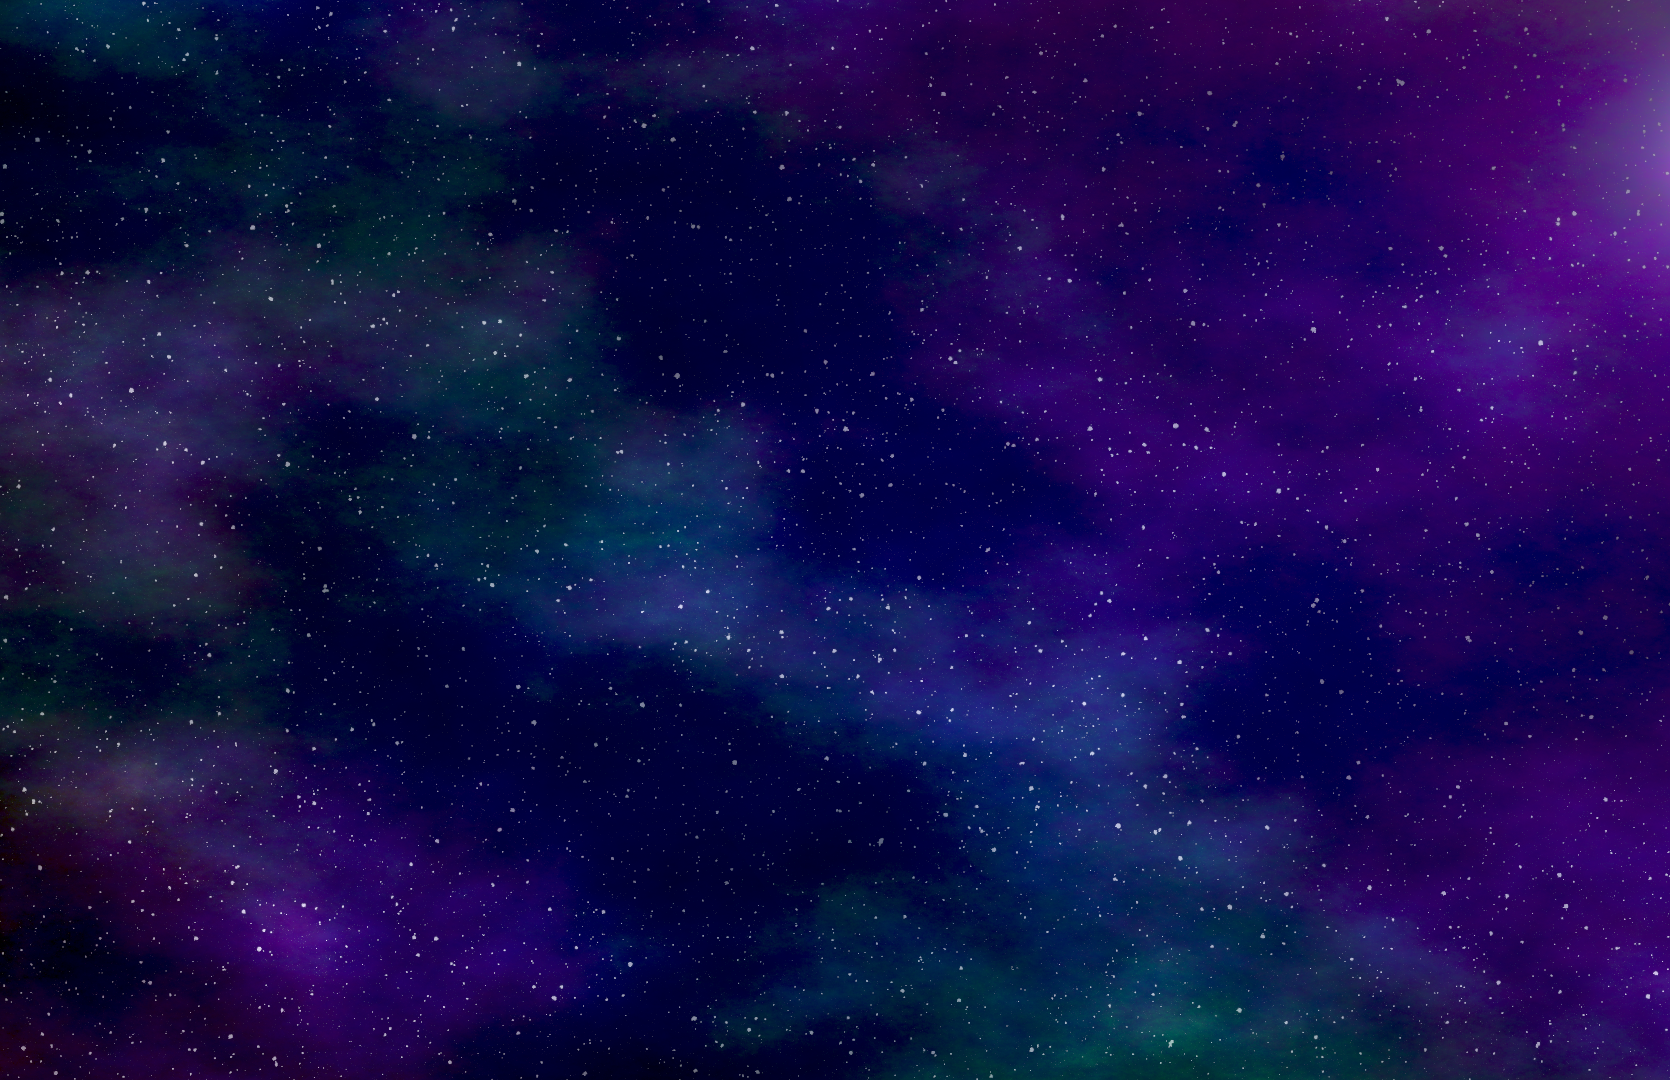
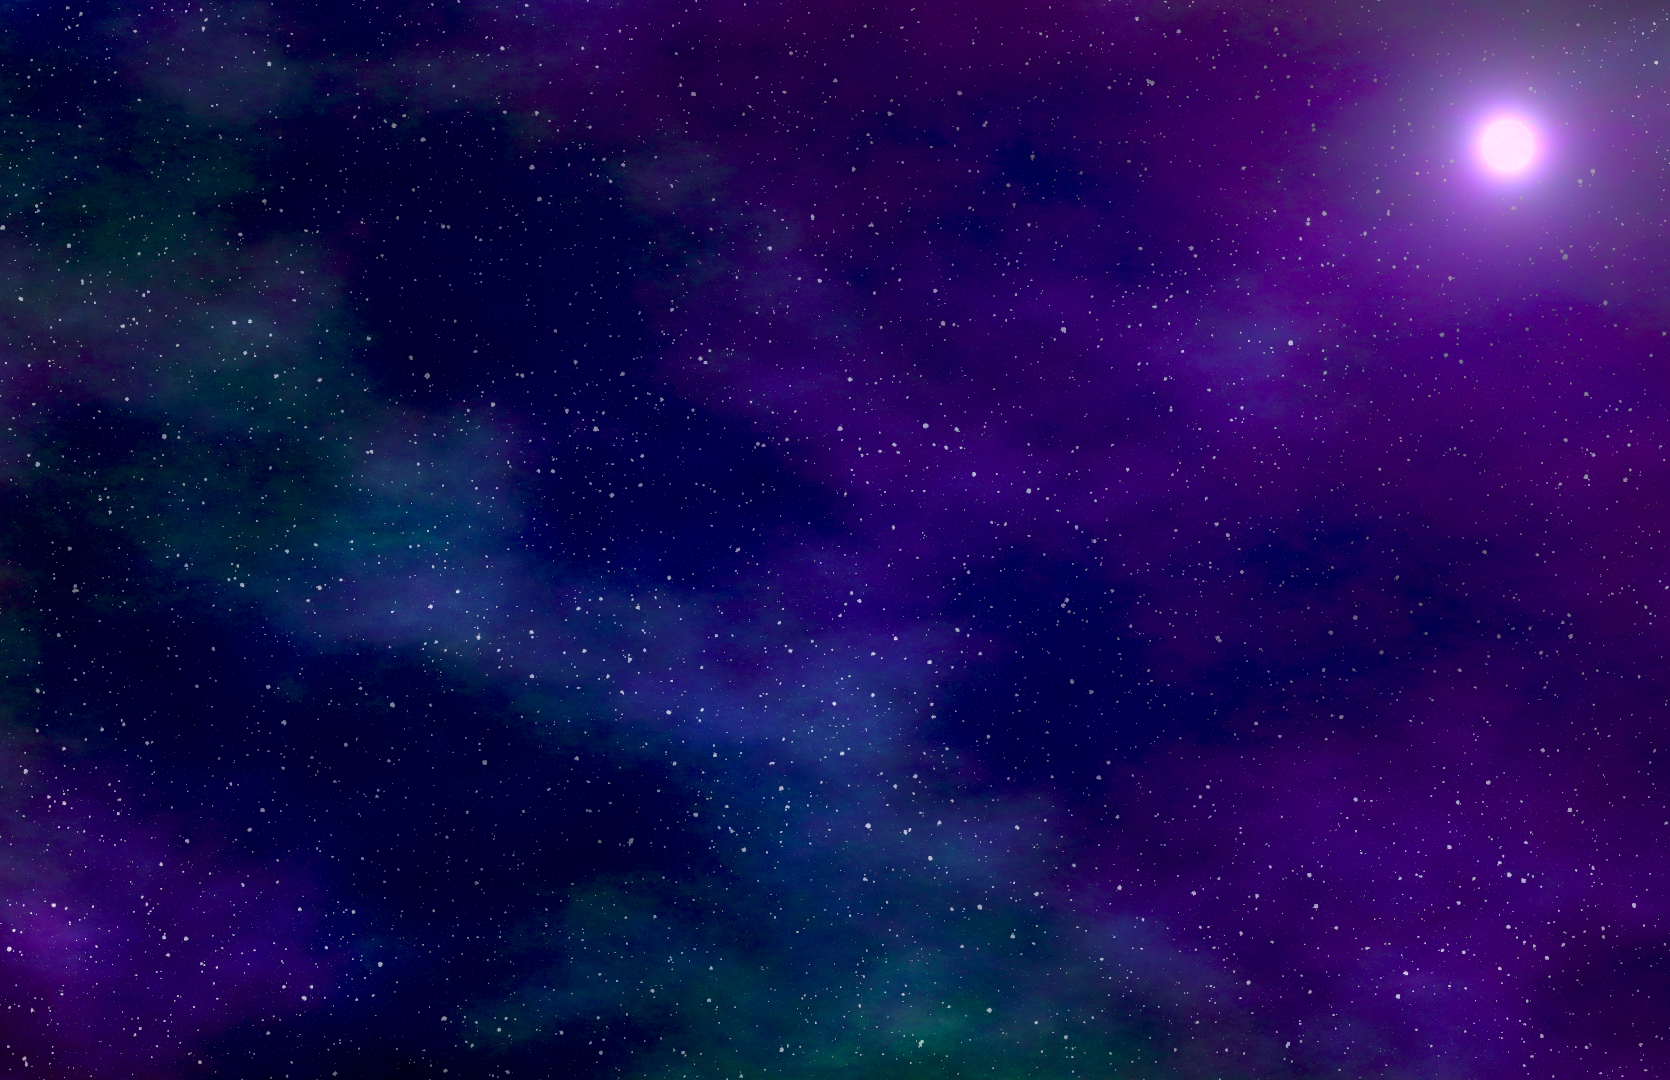
Added another background and altered positions accordingly and Added constants to explosion, background and game manager.cpp

diff --git a/Hornet/GameManager.cpp b/Hornet/GameManager.cpp
@@ -3,6 +3,15 @@
 #include "ObjectManager.h"
 #include "HtCamera.h"
 
+//Constants
+const int START_SCORE = 0;
+const int START_LIVES = 3;
+const Vector2D TOP_LEFT(-1600, 920);
+const int LIVES_GAP = 100;
+const int FONT = 2;
+const double FONT_SIZE = 1.25;
+const int ROCK_SCORE_INCREASE = 100;
+
 
 GameManager::GameManager() : GameObject(ObjectType::GAMEMANAGER)
 {
@@ -10,8 +19,8 @@ GameManager::GameManager() : GameObject(ObjectType::GAMEMANAGER)
 
 void GameManager::Initialise()
 {
-    m_score = 0;
-    m_lives = 3;
+    m_score = START_SCORE;
+    m_lives = START_LIVES;
 
     m_livesImage = HtGraphics::instance.LoadPicture("assets/spaceship.png"); 
     SetHandleEvents();
@@ -23,19 +32,16 @@ void GameManager::Update(double frametime)
 
 void GameManager::Render()
 {
-    Vector2D topLeft(-1600, 920);
     HtCamera::instance.UseCamera(false);
-    HtGraphics::instance.WriteIntAligned(topLeft, m_score, HtGraphics::WHITE, 2, 1.25);
+    HtGraphics::instance.WriteIntAligned(TOP_LEFT, m_score, HtGraphics::WHITE, FONT, FONT_SIZE);
     HtCamera::instance.UseCamera(true);
 
-    Vector2D livesPos(1100, 950);
-    int lifeSpace = 100;
-
+    Vector2D livesPos(1100, 950); //not a const because it needs to be changed from certain events
     HtCamera::instance.UseCamera(false);
     for (int i = 0; i < m_lives; i++)
     {
         HtGraphics::instance.DrawAt(livesPos, m_livesImage);
-        livesPos.XValue += lifeSpace;
+        livesPos.XValue += LIVES_GAP;
     }
     HtCamera::instance.UseCamera(true);
 }
@@ -46,7 +52,7 @@ void GameManager::HandleEvent(Event evt)
     {
         if (evt.pSource && evt.pSource->GetType() == ObjectType::ROCK) //evt.Psource && is a check that it is not a null ptr
         {
-            m_score += 100;
+            m_score += ROCK_SCORE_INCREASE;
         }
 
     }

diff --git a/Hornet/Background.cpp b/Hornet/Background.cpp
@@ -1,5 +1,11 @@
 #include "Background.h"
 
+
+//Constants
+const Vector2D BG_IMG1_POS(0, 0);
+const Vector2D BG_IMG2_POS(4175, 0);
+const Vector2D BG_IMG3_POS(8350, 0);
+
 Background::Background(ObjectType objType)
 {
 }
@@ -8,6 +14,7 @@ void Background::Initialise()
 {
     m_bgImage1 = HtGraphics::instance.LoadPicture("assets/spacebg.png");
     m_bgImage2 = HtGraphics::instance.LoadPicture("assets/starsbg.png");
+    m_bgImage3 = HtGraphics::instance.LoadPicture("assets/starsbg2.png");
     SetDrawDepth(-2);
 }
 
@@ -17,9 +24,10 @@ void Background::Update(double frametime)
 
 void Background::Render()
 {
-    Vector2D bgImage1pos(-1100, 0);
-    HtGraphics::instance.DrawAt(bgImage1pos, m_bgImage1, 2.5);
+    HtGraphics::instance.DrawAt(BG_IMG1_POS, m_bgImage1, 2.5);
 
-    Vector2D bgImage2pos(3000, 0);
-    HtGraphics::instance.DrawAt(bgImage2pos, m_bgImage2, 2.5);
+    //image width is 1670 so second image needs to have its starts position at +1670*2.5 which is 4175
+    HtGraphics::instance.DrawAt(BG_IMG2_POS, m_bgImage2, 2.5);
+
+    HtGraphics::instance.DrawAt(BG_IMG3_POS, m_bgImage3, 2.5);
 }

diff --git a/Hornet/Explosion.cpp b/Hornet/Explosion.cpp
@@ -1,5 +1,9 @@
 #include "Explosion.h"
 
+//constants
+const double TIMER = 0.0;
+const double EXPLOSION_SIZE = 2.0;
+
 Explosion::Explosion() : GameObject(ObjectType::EXPLOSION)
 {
 }
@@ -19,8 +23,8 @@ void Explosion::Update(double frametime)
 void Explosion::Initialise(Vector2D postion)
 {
     m_position = postion;
-    m_timer = 0.0;
-    m_scale = 2.0;
+    m_timer = TIMER;
+    m_scale = EXPLOSION_SIZE;
 
     LoadImage("assets/explosionA1.bmp");
     LoadImage("assets/explosionA2.bmp");

diff --git a/Hornet/Spaceship.cpp b/Hornet/Spaceship.cpp
@@ -108,7 +108,7 @@ void Spaceship::ProcessCollision(GameObject& other)
 
 void Spaceship::Initialise()
 {
-    m_position.set(-1500, 0);
+    m_position.set(0, 0);
     m_velocity.set(0, 0);
     LoadImage(SHIP_IMAGE.c_str()); //c_str used to convert sting to const char
     m_scale = SHIP_SIZE; 

diff --git a/Hornet/Background.h b/Hornet/Background.h
@@ -11,5 +11,5 @@ public:
 private:
     PictureIndex m_bgImage1;
     PictureIndex m_bgImage2;
-    int m_bgImage1Width;
+    PictureIndex m_bgImage3;
 };
